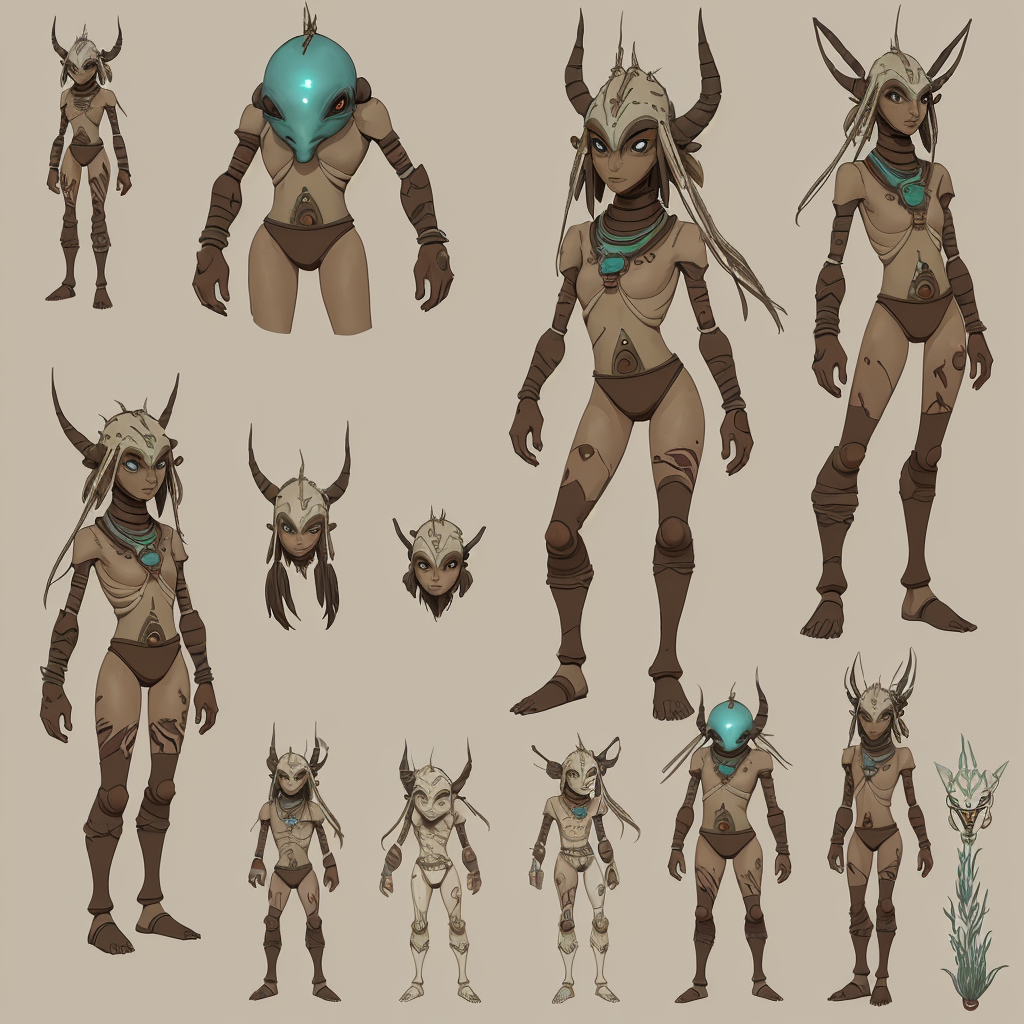
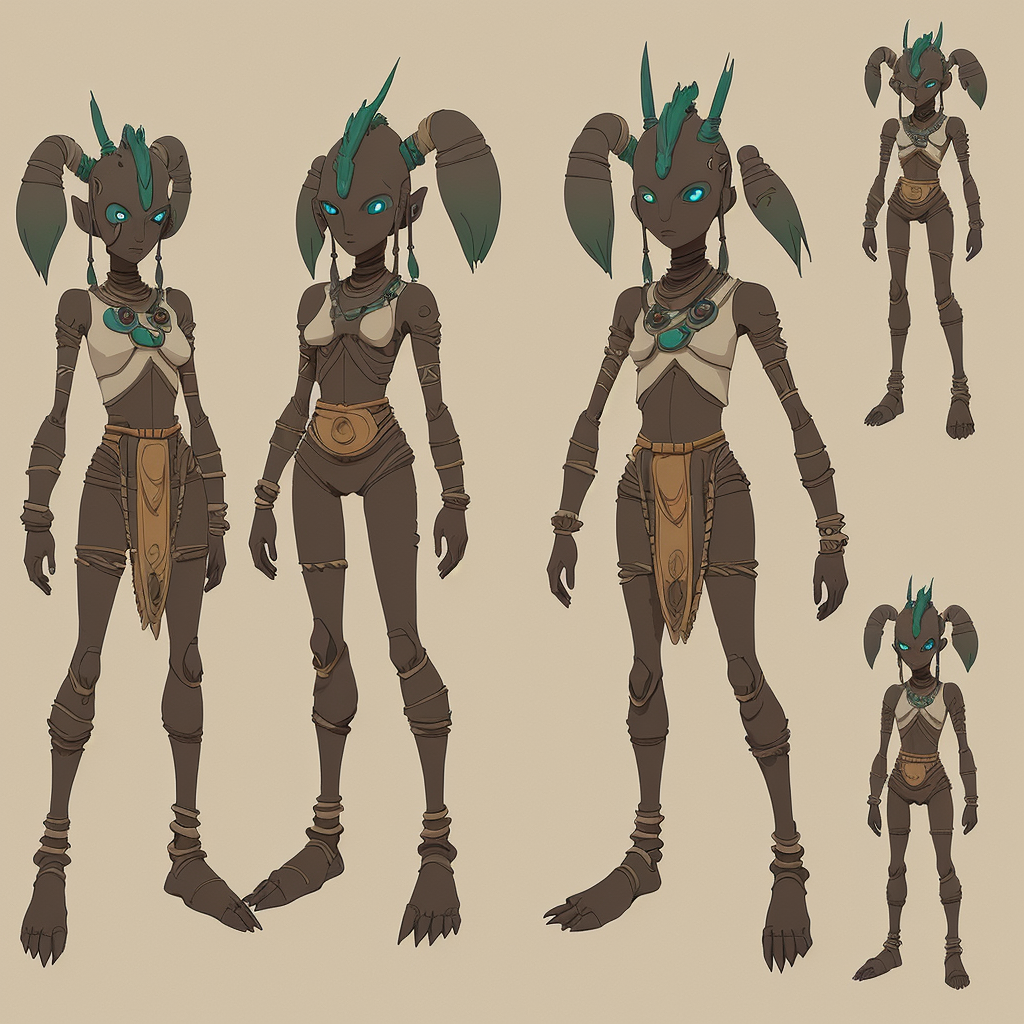
Added image aae26ff13d105c13954b203e9e5da79e to Caneta-Silva/weeb

diff --git a/images/aae26ff13d105c13954b203e9e5da79e/aae26ff13d105c13954b203e9e5da79e.md b/images/aae26ff13d105c13954b203e9e5da79e/aae26ff13d105c13954b203e9e5da79e.md
@@ -9,28 +9,28 @@
 | Field          | Value                                                                                                                     |
 |----------------|---------------------------------------------------------------------------------------------------------------------------|
 | **Image ID**             | aae26ff13d105c13954b203e9e5da79e                                                                                                             |
-| **Title**           | Futuristic Alien Desert Tribe Warrior in the Style of Studio Ghibli                                                                                                       |
+| **Title**           | Desert Wanderer: A Futuristic Alien Tribe Warrior                                                                                                       |
 | **Description**           | Create a landscape full body image of a futuristic alien desert tribe warrior in the style of Studio Ghibli                                                                                                       |
-| **CreatedAt**        | 2024-12-18 10:20:13.889969                                                                                                        |
+| **CreatedAt**        | 2024-12-18 10:33:46.552262                                                                                                        |
 | **Model**        | dreamshaper                                                                                                        |
-| **OpenAI**         | [OpenAI Image URL](http://192.168.1.85:8081/generated-images/b6475765812.png)                                                                                |
+| **OpenAI**         | [OpenAI Image URL](http://192.168.1.85:8081/generated-images/b642666862917.png)                                                                                |
 | **GitHub**         | [GitHub Image URL](https://raw.githubusercontent.com/Caneta-Silva/weeb/refs/heads/main/images/aae26ff13d105c13954b203e9e5da79e/aae26ff13d105c13954b203e9e5da79e.jpg)                                                                                |
 | **Tags**       | None                                                                                                                   |
 
-### 📜 91f84c463356fc6b6dacc6995a9d4ba4
+### 📜 5197b60d2d3c0d91d9277b0f37502f88
 
 > Create a landscape full body image of a futuristic alien desert tribe warrior in the style of Studio Ghibli
 
 | Field          | Value                                                                                                                                                                      |
 |----------------|----------------------------------------------------------------------------------------------------------------------------------------------------------------------------|
-| **Prompt ID**  | 91f84c463356fc6b6dacc6995a9d4ba4                                                                                                                                                            |
+| **Prompt ID**  | 5197b60d2d3c0d91d9277b0f37502f88                                                                                                                                                            |
 | **Prompt History** | <ul><li>**Input:**  <br> **Output:**  <br> **Type:** </li></ul> |
 | **Created At** |                                                                                                                                                    |
 | **Revised At** | None                                                                                                                                                   |
 | **Revised Prompt** | No                                                                                                                                                                      |
 | **Enhanced At** | None                                                                                                                                                  |
 | **Enhanced Prompt** | No                                                                                                                                                                    |
-| **Metadata**   | <ul><li>**Element:** desert tribe warrior <br> **Style:** Studio Ghibli <br> **Aspect Ratio:** landscape <br> **Backdrop:** Martial landscape <br> **Animal:** camel <br> **Modifiers:**<ul><li>**Image:** full body</li><li>**Element:** futuristic alien</li><li>**Backdrop:** alien</li></ul></li></ul> |
+| **Metadata**   | <ul><li>**Element:** desert tribe warrior <br> **Style:** Studio Ghibli <br> **Aspect Ratio:** landscape <br> **Backdrop:** fortress <br> **Animal:** rhino <br> **Modifiers:**<ul><li>**Image:** full body</li><li>**Element:** futuristic alien</li><li>**Backdrop:** futuristic</li></ul></li></ul> |
 | **Template**   | Create a {{ aspect_ratio }} {{ modifiers.image }} image of a {{ modifiers.element }} {{ element }} in the style of {{ style }}                                                                                                                                           |
 
 
